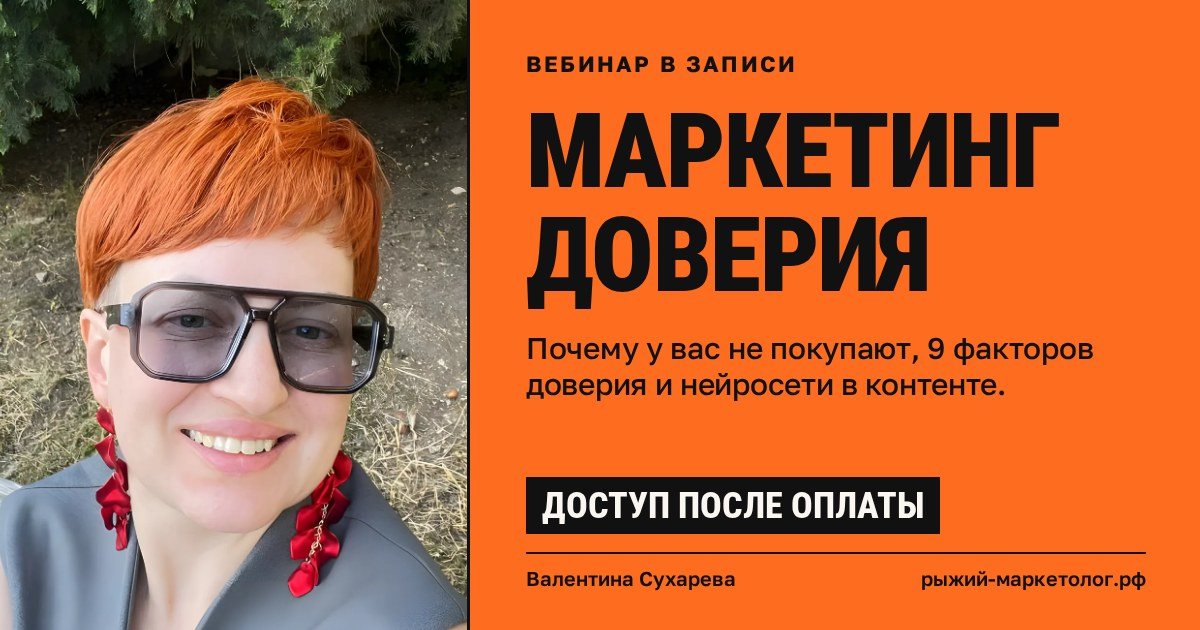
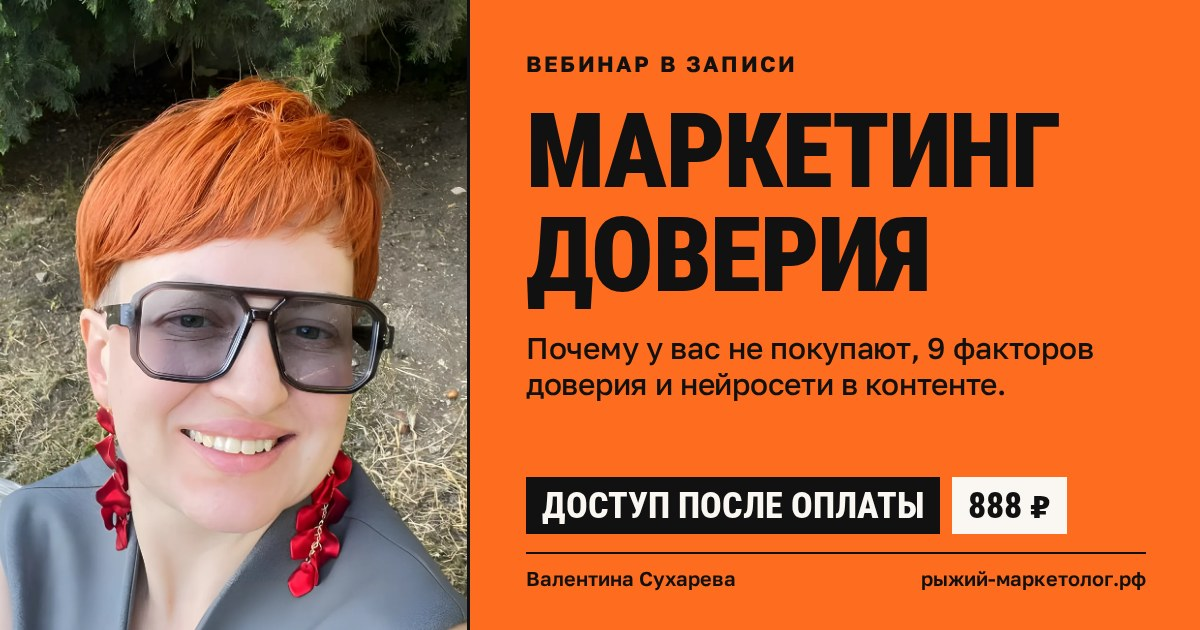
feat: цена 888 ₽ на OG-карточке и в описании «Маркетинг доверия»
Цена подтверждена по форме оплаты payform.ru/e0cjdjM и владельцем.
Картинка ?v=20260930b; тело страницы не менялось, только мета в head.

Claude-Session: https://claude.ai/code/session_01GPChRLcNC8GfabuTaiMtUE

Changed region(s): [[0.7708, 0.754, 0.8942, 0.8746]]

diff --git a/zapis-marketing-doveriya/index.html b/zapis-marketing-doveriya/index.html
@@ -12,18 +12,18 @@
 <meta property="og:locale" content="ru_RU">
 <meta property="og:url" content="https://xn----8sbjhcmhkkgzbpg6a9j.xn--p1ai/zapis-marketing-doveriya/">
 <meta property="og:title" content="Маркетинг доверия — вебинар в записи">
-<meta property="og:description" content="Почему у вас не покупают, 9 факторов доверия, деньги в вашей базе и нейросети в контенте. Запись эфира Валентины Сухаревой, доступ после оплаты.">
-<meta property="og:image" content="https://xn----8sbjhcmhkkgzbpg6a9j.xn--p1ai/assets/img/og-marketing-doveriya.jpg?v=20260930">
-<meta property="og:image:secure_url" content="https://xn----8sbjhcmhkkgzbpg6a9j.xn--p1ai/assets/img/og-marketing-doveriya.jpg?v=20260930">
+<meta property="og:description" content="Почему у вас не покупают, 9 факторов доверия, деньги в вашей базе и нейросети в контенте. Запись эфира Валентины Сухаревой, доступ после оплаты, 888 ₽.">
+<meta property="og:image" content="https://xn----8sbjhcmhkkgzbpg6a9j.xn--p1ai/assets/img/og-marketing-doveriya.jpg?v=20260930b">
+<meta property="og:image:secure_url" content="https://xn----8sbjhcmhkkgzbpg6a9j.xn--p1ai/assets/img/og-marketing-doveriya.jpg?v=20260930b">
 <meta property="og:image:type" content="image/jpeg">
 <meta property="og:image:width" content="1200">
 <meta property="og:image:height" content="630">
-<meta property="og:image:alt" content="Маркетинг доверия. Вебинар в записи, доступ после оплаты. Валентина Сухарева.">
+<meta property="og:image:alt" content="Маркетинг доверия. Вебинар в записи, доступ после оплаты, 888 ₽. Валентина Сухарева.">
 <meta name="twitter:card" content="summary_large_image">
 <meta name="twitter:title" content="Маркетинг доверия — вебинар в записи">
-<meta name="twitter:description" content="Почему у вас не покупают, 9 факторов доверия, деньги в вашей базе и нейросети в контенте. Запись эфира Валентины Сухаревой, доступ после оплаты.">
-<meta name="twitter:image" content="https://xn----8sbjhcmhkkgzbpg6a9j.xn--p1ai/assets/img/og-marketing-doveriya.jpg?v=20260930">
-<meta name="twitter:image:alt" content="Маркетинг доверия. Вебинар в записи, доступ после оплаты. Валентина Сухарева.">
+<meta name="twitter:description" content="Почему у вас не покупают, 9 факторов доверия, деньги в вашей базе и нейросети в контенте. Запись эфира Валентины Сухаревой, доступ после оплаты, 888 ₽.">
+<meta name="twitter:image" content="https://xn----8sbjhcmhkkgzbpg6a9j.xn--p1ai/assets/img/og-marketing-doveriya.jpg?v=20260930b">
+<meta name="twitter:image:alt" content="Маркетинг доверия. Вебинар в записи, доступ после оплаты, 888 ₽. Валентина Сухарева.">
 <link href="/favicon.svg" rel="icon" type="image/svg+xml"/>
 <link href="/assets/img/favicon-32.png" rel="icon" sizes="32x32" type="image/png"/>
 <link rel="icon" href="/assets/img/favicon-120.png" sizes="120x120" type="image/png">

diff --git a/specs/005-og-cards/og-template.html b/specs/005-og-cards/og-template.html
@@ -38,7 +38,7 @@ const C={
  'zapis-lichnyj-brend':{img:'portrait-mic-1200.webp',sw:1200,crop:[0,120,1600],k:'Вебинар в записи',h:'Как развить<br>личный бренд',hs:88,s:'Позиционирование, маркетинг доверия и контент без выгорания.',pl:[['Доступ сразу'],['800 '+R,'c']]},
  'networking':{img:'portrait-phone-call-1200.webp',sw:1200,crop:[60,120,1500],k:'Онлайн-нетворкинг · 15–20 человек',h:'Полезные знакомства',hs:100,s:'<b>8 октября</b> — 10:00–12:00<br><b>10 ноября, 11 декабря</b> — 12:00–14:00 МСК',pl:[['Контур.Толк'],['от 990 '+R,'c']]},
  'home':{img:'hero-cutout-big-c2-1600.webp',sw:1600,crop:[230,-110,1620],bg:'#FAF7F2',k:'Наставник по личному бренду',h:'Рыжий маркетолог',hs:108,s:'Личный бренд и маркетинг для экспертов. Онлайн по всей России, база\u00a0— Сочи.',pl:[['20+ лет в маркетинге'],['Онлайн','c']]},
- 'marketing-doveriya':{img:'portrait-selfie-red-1200.webp',sw:1200,crop:[230,0,1300],k:'Вебинар в записи',h:'Маркетинг доверия',hs:104,s:'Почему у вас не покупают, 9 факторов доверия и нейросети в контенте.',pl:[['Доступ после оплаты']]},
+ 'marketing-doveriya':{img:'portrait-selfie-red-1200.webp',sw:1200,crop:[230,0,1300],k:'Вебинар в записи',h:'Маркетинг доверия',hs:104,s:'Почему у вас не покупают, 9 факторов доверия и нейросети в контенте.',pl:[['Доступ после оплаты'],['888 '+R,'c']]},
 };
 const c=C[new URLSearchParams(location.search).get('id')];
 const [x,y,h]=c.crop, sc=630/h, ph=document.getElementById('ph');

diff --git a/specs/005-og-cards/apply-og.py b/specs/005-og-cards/apply-og.py
@@ -33,8 +33,8 @@ P = {
    d='Практический вебинар Валентины Сухаревой: позиционирование, маркетинг доверия и контент без выгорания. Доступ сразу после оплаты, 800 ₽.',
    img=('og-zapis-lichnyj-brend.jpg' + V, 'Как развить личный бренд. Вебинар в записи, доступ сразу, 800 ₽. Валентина Сухарева.')),
  'zapis-marketing-doveriya/index.html': dict(url='/zapis-marketing-doveriya/', t='Маркетинг доверия — вебинар в записи',
-   d='Почему у вас не покупают, 9 факторов доверия, деньги в вашей базе и нейросети в контенте. Запись эфира Валентины Сухаревой, доступ после оплаты.',
-   img=('og-marketing-doveriya.jpg' + V, 'Маркетинг доверия. Вебинар в записи, доступ после оплаты. Валентина Сухарева.')),
+   d='Почему у вас не покупают, 9 факторов доверия, деньги в вашей базе и нейросети в контенте. Запись эфира Валентины Сухаревой, доступ после оплаты, 888 ₽.',
+   img=('og-marketing-doveriya.jpg?v=20260930b', 'Маркетинг доверия. Вебинар в записи, доступ после оплаты, 888 ₽. Валентина Сухарева.')),
  # /webinar/ — редирект; мессенджеры не исполняют meta refresh/JS, поэтому превью берут отсюда
  'webinar/index.html': dict(url='/zapis-lichnyj-brend/', t='Как развить личный бренд — вебинар в записи',
    d='Практический вебинар Валентины Сухаревой: позиционирование, маркетинг доверия и контент без выгорания. Доступ сразу после оплаты, 800 ₽.',
